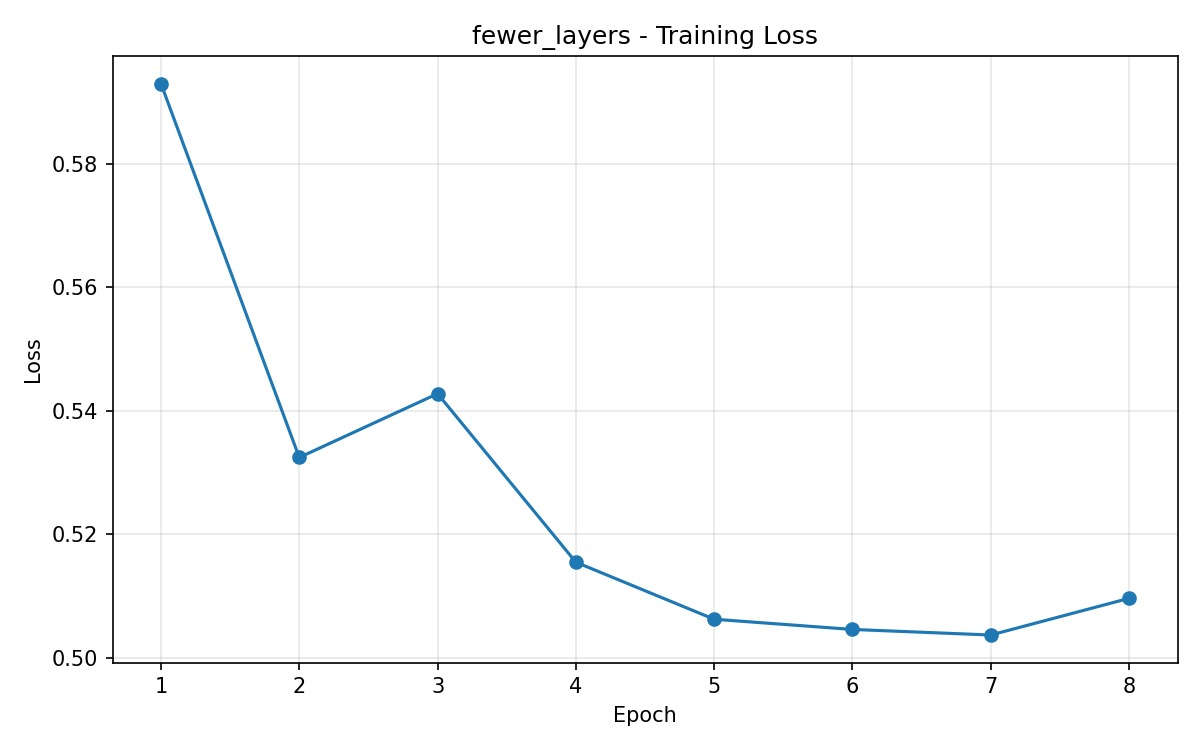
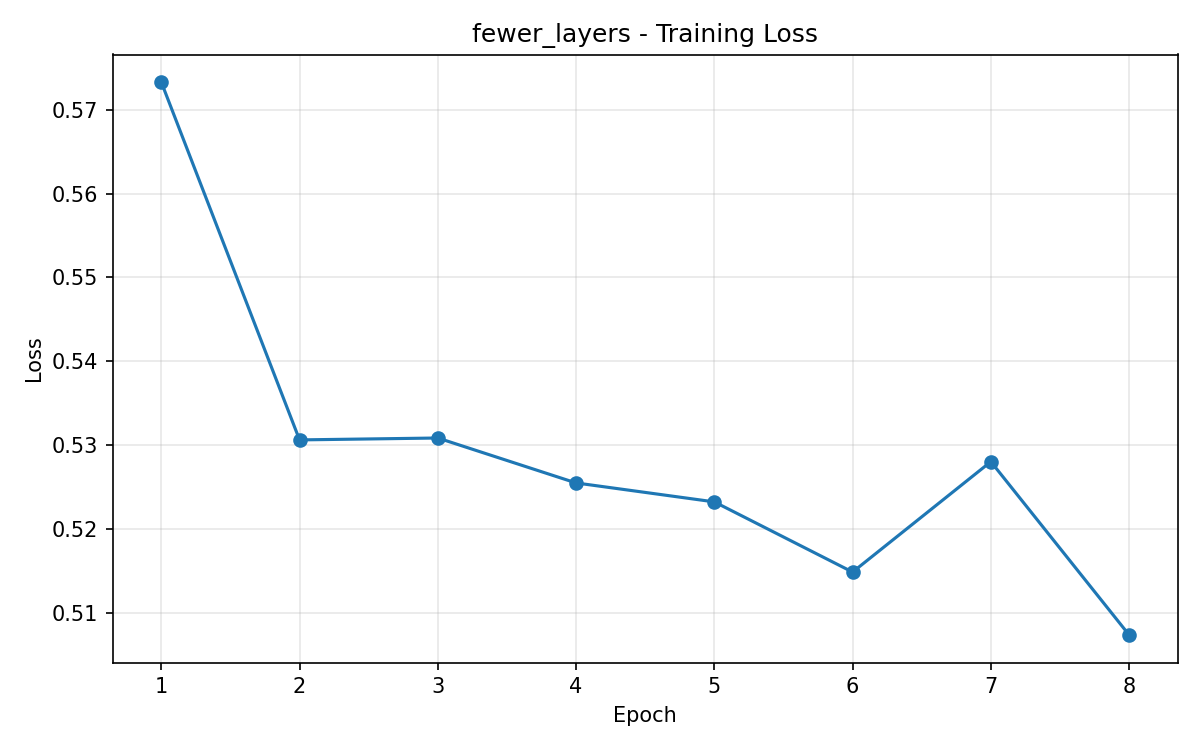
adding additional experemints for hyperparameter testing and visuals

diff --git a/src/supervised_learning.py b/src/supervised_learning.py
@@ -447,10 +447,45 @@ def main():
         "optimizer": "Adam",
         "epochs": EPOCHS
         }
+        ,
+
+        {
+        "name": "fewer_layers",
+        "filters": (32,64,128),
+        "dense_units": 256,
+        "dropout": 0.40,
+        "use_batchnorm": True,
+        "learning_rate": 0.001,
+        "optimizer": "Adam",
+        "epochs": EPOCHS
+        },
+
+        {
+        "name": "deeper_model",
+        "filters": (32,64,128,256,512),
+        "dense_units": 256,
+        "dropout": 0.40,
+        "use_batchnorm": True,
+        "learning_rate": 0.001,
+        "optimizer": "Adam",
+        "epochs": EPOCHS
+        },
+
+        {
+        "name": "wider_filters",
+        "filters": (64,128,256,512),
+        "dense_units": 256,
+        "dropout": 0.40,
+        "use_batchnorm": True,
+        "learning_rate": 0.001,
+        "optimizer": "Adam",
+        "epochs": EPOCHS
+        }
 
         ]
 
     history_rows = []
+    results_rows = []   
     # Train and evaluate each experiment one after another.
     for config in experiments:
         best_model, experiment_history = train_one_experiment(config, train_loader, val_loader, device)
@@ -459,14 +494,173 @@ def main():
         test_metrics = evaluate_model(best_model, test_loader, device)
         print(f"  Test metrics    : {test_metrics}")
 
-    # Save screenshots for the training curves.
+        results_rows.append({
+            "Model": config["name"],
+            "Accuracy": test_metrics["accuracy"],
+            "Precision": test_metrics["precision"],
+            "Recall": test_metrics["recall"],
+            "F1": test_metrics["f1"],
+            "ROC_AUC": test_metrics["roc_auc"],
+        })
+
+# Save screenshots for the per-experiment training curves.
     save_training_plots(history_rows)
+
+    save_comparison_plots(results_rows, history_rows)
+    #─────────────────────────────────────────────────────────────────────────────
+    #  Comparison plots across all experiments (hyperparameter comparison visuals)
+    # ─────────────────────────────────────────────────────────────────────────────
+
+def save_comparison_plots(results_rows, history_rows):
+    results = pd.DataFrame(results_rows)
+    history_df = pd.DataFrame(history_rows)
+
+    results.to_csv(RESULTS_DIR / "cnn_hyperparameter_comparison.csv", index=False)
+
+    # ── Chart 1: All 5 metrics grouped bar chart ─────────────────────────────
+    metrics = ["Accuracy", "Precision", "Recall", "F1", "ROC_AUC"]
+    x = np.arange(len(results))
+    width = 0.15
+    colors = ["#2C3E50", "#566573", "#808B96", "#AAB7B8", "#D5D8DC"]
+
+    fig, ax = plt.subplots(figsize=(14, 6))
+    for i, metric in enumerate(metrics):
+        offset = (i - 2) * width
+        bars = ax.bar(x + offset, results[metric], width, label=metric, color=colors[i], edgecolor="white")
+        for bar in bars:
+            h = bar.get_height()
+            ax.text(bar.get_x() + bar.get_width() / 2, h + 0.003,
+                    f"{h:.2f}", ha="center", va="bottom", fontsize=7)
+    ax.set_xticks(x)
+    ax.set_xticklabels(results["Model"], rotation=20, ha="right")
+    ax.set_ylim(0.55, 0.95)
+    ax.set_ylabel("Score")
+    ax.set_title("Supervised CNN — Hyperparameter Comparison (All Test Metrics)", fontweight="bold")
+    ax.legend(loc="lower right")
+    ax.yaxis.grid(True, linestyle="--", alpha=0.4)
+    ax.set_axisbelow(True)
+    plt.tight_layout()
+    plt.savefig(SCREENSHOTS_DIR / "cnn_comparison_all_metrics.png", dpi=150, bbox_inches="tight")
+    plt.close()
+
+    # ── Chart 2: Accuracy comparison ──────────────────────────────────────────
+    plt.figure(figsize=(10, 5))
+    bars = plt.bar(results["Model"], results["Accuracy"], color="#2C3E50", edgecolor="white", width=0.55)
+    for bar in bars:
+        h = bar.get_height()
+        plt.text(bar.get_x() + bar.get_width() / 2, h + 0.002,
+                 f"{h:.3f}", ha="center", va="bottom", fontsize=10)
+    plt.title("Model Accuracy Comparison", fontweight="bold")
+    plt.ylabel("Accuracy")
+    plt.xticks(rotation=20, ha="right")
+    plt.grid(axis="y", linestyle="--", alpha=0.4)
+    plt.tight_layout()
+    plt.savefig(SCREENSHOTS_DIR / "cnn_comparison_accuracy.png", dpi=150, bbox_inches="tight")
+    plt.close()
+
+    # ── Chart 3: ROC-AUC comparison ───────────────────────────────────────────
+    plt.figure(figsize=(10, 5))
+    bars = plt.bar(results["Model"], results["ROC_AUC"], color="#566573", edgecolor="white", width=0.55)
+    for bar in bars:
+        h = bar.get_height()
+        plt.text(bar.get_x() + bar.get_width() / 2, h + 0.0005,
+                 f"{h:.4f}", ha="center", va="bottom", fontsize=10)
+    plt.title("Model ROC-AUC Comparison", fontweight="bold")
+    plt.ylabel("ROC-AUC")
+    plt.xticks(rotation=20, ha="right")
+    plt.grid(axis="y", linestyle="--", alpha=0.4)
+    plt.tight_layout()
+    plt.savefig(SCREENSHOTS_DIR / "cnn_comparison_roc_auc.png", dpi=150, bbox_inches="tight")
+    plt.close()
+
+    # ── Chart 4: Recall comparison (most important) ────────────────
+    plt.figure(figsize=(10, 5))
+    max_recall = results["Recall"].max()
+    bar_colors = ["#2C3E50" if r == max_recall else "#808B96" for r in results["Recall"]]
+    bars = plt.bar(results["Model"], results["Recall"], color=bar_colors, edgecolor="white", width=0.55)
+    for bar in bars:
+        h = bar.get_height()
+        plt.text(bar.get_x() + bar.get_width() / 2, h + 0.001,
+                 f"{h:.3f}", ha="center", va="bottom", fontsize=10)
+    plt.axhline(y=max_recall, color="#2C3E50", linestyle="--", linewidth=1.2, alpha=0.6,
+                label=f"Best recall = {max_recall:.3f}")
+    plt.title("Cancer Detection Recall Comparison\n(Higher = fewer missed cancers)", fontweight="bold")
+    plt.ylabel("Recall (Sensitivity)")
+    plt.xticks(rotation=20, ha="right")
+    plt.grid(axis="y", linestyle="--", alpha=0.4)
+    plt.legend()
+    plt.tight_layout()
+    plt.savefig(SCREENSHOTS_DIR / "cnn_comparison_recall.png", dpi=150, bbox_inches="tight")
+    plt.close()
+
+    # ── Chart 5: Combined training loss curves across all experiments ────────
+    plt.figure(figsize=(11, 6))
+    for experiment_name in history_df["experiment"].unique():
+        run_df = history_df[history_df["experiment"] == experiment_name]
+        plt.plot(run_df["epoch"], run_df["train_loss"], marker="o", label=experiment_name)
+    plt.xlabel("Epoch")
+    plt.ylabel("Training Loss")
+    plt.title("Training Loss — All Hyperparameter Configurations", fontweight="bold")
+    plt.legend(loc="upper right", fontsize=9)
+    plt.grid(True, linestyle="--", alpha=0.4)
+    plt.tight_layout()
+    plt.savefig(SCREENSHOTS_DIR / "cnn_comparison_training_loss.png", dpi=150, bbox_inches="tight")
+    plt.close()
+
+    # ── Chart 6: Combined validation AUC curves ──────────────────────────────
+    plt.figure(figsize=(11, 6))
+    for experiment_name in history_df["experiment"].unique():
+        run_df = history_df[history_df["experiment"] == experiment_name]
+        plt.plot(run_df["epoch"], run_df["val_auc"], marker="o", label=experiment_name)
+    plt.xlabel("Epoch")
+    plt.ylabel("Validation ROC-AUC")
+    plt.title("Validation ROC-AUC — All Hyperparameter Configurations", fontweight="bold")
+    plt.legend(loc="lower right", fontsize=9)
+    plt.grid(True, linestyle="--", alpha=0.4)
+    plt.tight_layout()
+    plt.savefig(SCREENSHOTS_DIR / "cnn_comparison_val_auc.png", dpi=150, bbox_inches="tight")
+    plt.close()
+
+    # ── Chart 7: Precision vs. Recall scatter (trade-off) ───────────
+    plt.figure(figsize=(9, 7))
+    for _, row in results.iterrows():
+        plt.scatter(row["Recall"], row["Precision"], s=160, edgecolor="black", zorder=3)
+        plt.annotate(row["Model"], (row["Recall"], row["Precision"]),
+                     textcoords="offset points", xytext=(8, 6), fontsize=9)
+    plt.xlabel("Recall (Sensitivity)")
+    plt.ylabel("Precision (Positive Predictive Value)")
+    plt.title("Precision vs. Recall Trade-off Across Experiments", fontweight="bold")
+    plt.grid(True, linestyle="--", alpha=0.4)
+    plt.tight_layout()
+    plt.savefig(SCREENSHOTS_DIR / "cnn_comparison_precision_recall.png", dpi=150, bbox_inches="tight")
+    plt.close()
+
+    # ── Chart 8: Heatmap summary of all metrics by experiment ────────────────
+    heatmap_data = results[metrics].values
+    fig, ax = plt.subplots(figsize=(9, 6))
+    im = ax.imshow(heatmap_data, cmap="Blues", aspect="auto", vmin=0.60, vmax=1.0)
+    ax.set_xticks(np.arange(len(metrics)))
+    ax.set_xticklabels(metrics)
+    ax.set_yticks(np.arange(len(results)))
+    ax.set_yticklabels(results["Model"])
+    for i in range(heatmap_data.shape[0]):
+        for j in range(heatmap_data.shape[1]):
+            val = heatmap_data[i, j]
+            color = "white" if val > 0.82 else "black"
+            ax.text(j, i, f"{val:.3f}", ha="center", va="center", color=color, fontsize=9)
+    plt.colorbar(im, ax=ax, label="Metric Score")
+    ax.set_title("Hyperparameter Results Heatmap — All Metrics × All Experiments", fontweight="bold")
+    plt.tight_layout()
+    plt.savefig(SCREENSHOTS_DIR / "cnn_comparison_heatmap.png", dpi=150, bbox_inches="tight")
+    plt.close()
+
+    print(f"  Comparison plots saved to {SCREENSHOTS_DIR}")
+    print(f"  Comparison CSV saved to {RESULTS_DIR / 'cnn_hyperparameter_comparison.csv'}")
 
     print("\n" + "=" * 55)
     print("  SUPERVISED LEARNING COMPLETE")
     print("=" * 55)
     print(f"  Plots saved   : {SCREENSHOTS_DIR}")
-
 
 if __name__ == "__main__":
     main()
